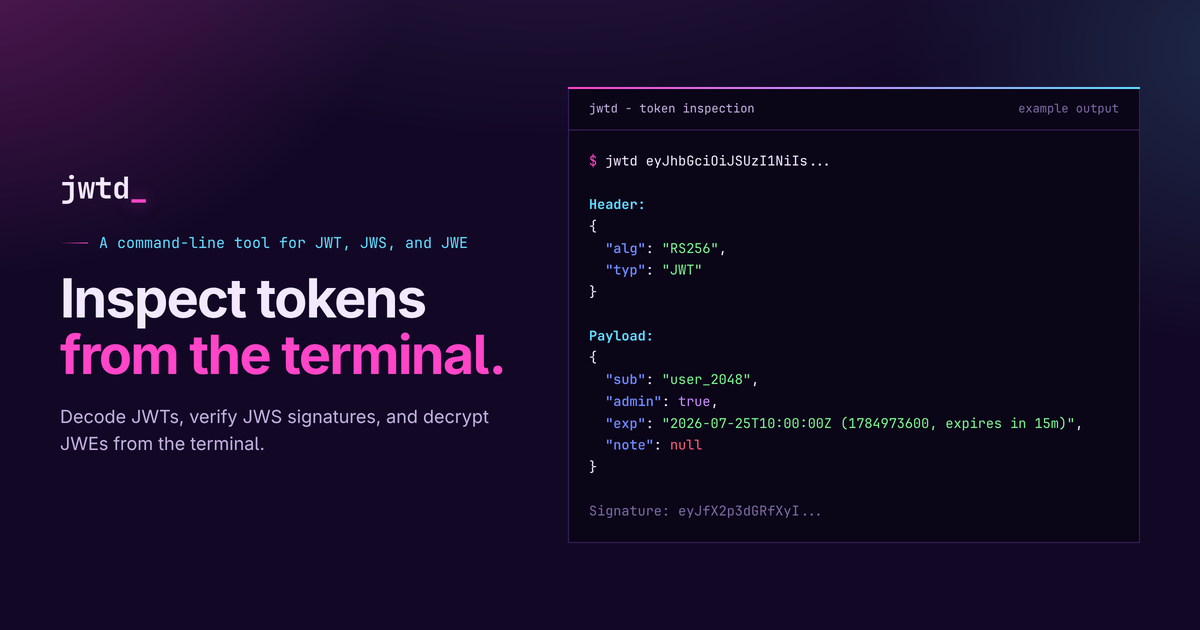
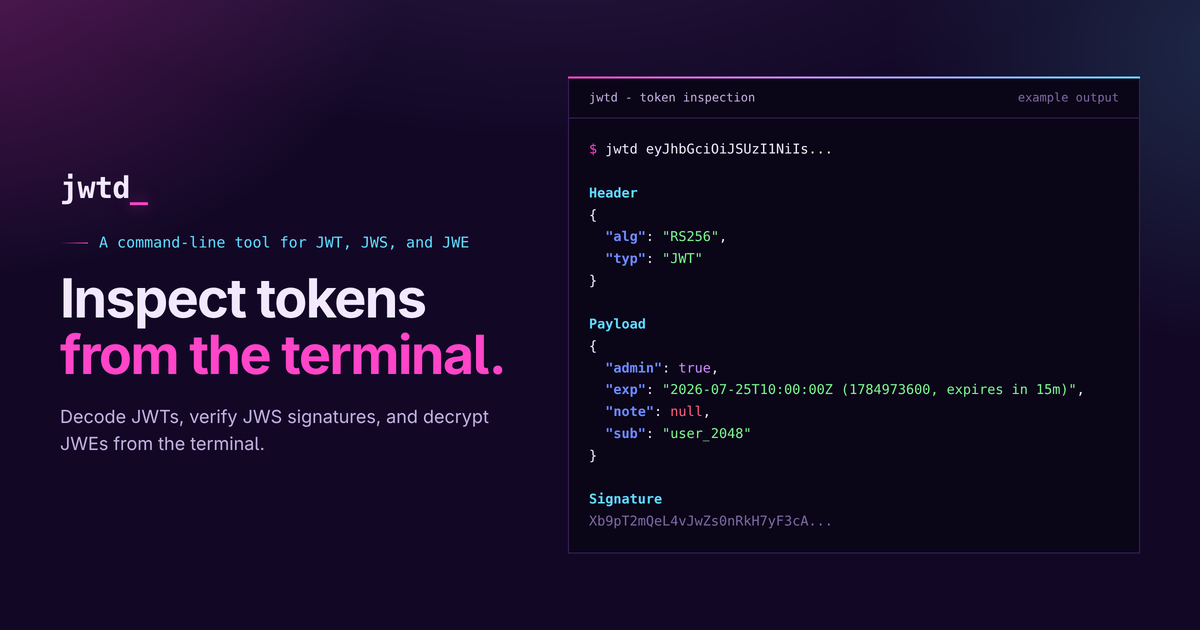
fix: make the website specimen match real jwtd output
The hero specimen and the Open Graph card showed labels with colons, the
signature on the label's line, and unsorted keys, none of which the tool
prints. Both now mirror the real output and the card is regenerated.

Also: the specimen is a figure with a figcaption so its name reaches
assistive tech; the verification link lands on the README's cosign
section; the sitemap lastmod is baked from the deployed commit date;
the Nix panel shows nix run; the --json FAQ covers the JWE shape; a
twitter:image:alt is set; and the duplicate raw-HMAC usage entry is
removed.

Claude-Session: https://claude.ai/code/session_017F8FwfSWhHEj6kmWvM8S5f

diff --git a/site/index.html b/site/index.html
@@ -30,6 +30,10 @@
     />
     <meta name="twitter:image" content="https://jwtd.sh/og.png" />
     <meta
+      name="twitter:image:alt"
+      content="jwtd terminal output: decode JWTs, verify JWS signatures, and decrypt JWEs"
+    />
+    <meta
       http-equiv="Content-Security-Policy"
       content="default-src 'none'; script-src 'self'; style-src 'self'; img-src 'self'; connect-src 'none'; font-src 'none'; object-src 'none'; base-uri 'none'; form-action 'none'; upgrade-insecure-requests"
     />
@@ -133,30 +137,31 @@
           </div>
         </div>
 
-        <div class="specimen" aria-label="Example jwtd terminal output">
-          <div class="specimen-caption">
+        <figure class="specimen">
+          <figcaption class="specimen-caption">
             <p>jwtd - token inspection</p>
             <p>example output</p>
-          </div>
+          </figcaption>
           <pre><code><span class="prompt">$</span> jwtd eyJhbGciOiJSUzI1NiIs...
 
-<span class="token-label">Header:</span>
+<span class="token-label">Header</span>
 {
   <span class="token-key">"alg"</span>: <span class="token-string">"RS256"</span>,
   <span class="token-key">"typ"</span>: <span class="token-string">"JWT"</span>
 }
 
-<span class="token-label">Payload:</span>
+<span class="token-label">Payload</span>
 {
-  <span class="token-key">"sub"</span>: <span class="token-string">"user_2048"</span>,
   <span class="token-key">"admin"</span>: <span class="token-boolean">true</span>,
-  <span class="token-key">"iat"</span>: <span class="token-string">"2026-07-25T09:45:00Z (1784972700)"</span>,
   <span class="token-key">"exp"</span>: <span class="token-string">"2026-07-25T10:00:00Z (1784973600, expires in 15m)"</span>,
-  <span class="token-key">"note"</span>: <span class="token-null">null</span>
+  <span class="token-key">"iat"</span>: <span class="token-string">"2026-07-25T09:45:00Z (1784972700)"</span>,
+  <span class="token-key">"note"</span>: <span class="token-null">null</span>,
+  <span class="token-key">"sub"</span>: <span class="token-string">"user_2048"</span>
 }
 
-<span class="signature">Signature: eyJfX2p3dGRfXyI...</span></code></pre>
-        </div>
+<span class="token-label">Signature</span>
+<span class="signature">Xb9pT2mQeL4vJwZs0nRkH7yF3cA...</span></code></pre>
+        </figure>
       </section>
 
       <section
@@ -568,15 +573,32 @@ scoop install jwtd</code></pre>
               nix run.
             </p>
           </div>
-          <div class="command-block">
-            <pre><code id="nix-command">nix profile install github:webcodr/jwtd</code></pre>
-            <div class="command-actions">
-              <button type="button" data-copy-target="nix-command">Copy</button
-              ><span
-                class="copy-feedback"
-                data-copy-feedback
-                aria-live="polite"
-              ></span>
+          <div class="install-methods">
+            <div class="command-block">
+              <p>Install into your profile</p>
+              <pre><code id="nix-command">nix profile install github:webcodr/jwtd</code></pre>
+              <div class="command-actions">
+                <button type="button" data-copy-target="nix-command">
+                  Copy</button
+                ><span
+                  class="copy-feedback"
+                  data-copy-feedback
+                  aria-live="polite"
+                ></span>
+              </div>
+            </div>
+            <div class="command-block">
+              <p>Run without installing</p>
+              <pre><code id="nix-run-command">nix run github:webcodr/jwtd -- eyJhbGciOiJIUzI1NiIs...</code></pre>
+              <div class="command-actions">
+                <button type="button" data-copy-target="nix-run-command">
+                  Copy</button
+                ><span
+                  class="copy-feedback"
+                  data-copy-feedback
+                  aria-live="polite"
+                ></span>
+              </div>
             </div>
           </div>
         </div>
@@ -774,29 +796,6 @@ scoop install jwtd</code></pre>
           <article>
             <div class="usage-number">08</div>
             <div class="usage-copy">
-              <h3>Verify with a raw HMAC secret</h3>
-              <p>
-                Prefix the key with <code>raw:</code> to pass a literal
-                symmetric secret instead of a file, so an HS256 token verifies
-                without touching disk.
-              </p>
-            </div>
-            <div class="command-block">
-              <pre><code id="raw-secret-command">jwtd --key raw:my-hmac-secret eyJhbGciOiJIUzI1NiIs...</code></pre>
-              <div class="command-actions">
-                <button type="button" data-copy-target="raw-secret-command">
-                  Copy</button
-                ><span
-                  class="copy-feedback"
-                  data-copy-feedback
-                  aria-live="polite"
-                ></span>
-              </div>
-            </div>
-          </article>
-          <article>
-            <div class="usage-number">09</div>
-            <div class="usage-copy">
               <h3>Emit machine-readable JSON</h3>
               <p>
                 Add <code>--json</code> for a single object per token, with exact
@@ -818,7 +817,7 @@ scoop install jwtd</code></pre>
             </div>
           </article>
           <article>
-            <div class="usage-number">10</div>
+            <div class="usage-number">09</div>
             <div class="usage-copy">
               <h3>Control color output</h3>
               <p>
@@ -991,7 +990,7 @@ scoop install jwtd</code></pre>
           </p>
           <a
             class="text-link"
-            href="https://github.com/webcodr/jwtd#installation"
+            href="https://github.com/webcodr/jwtd#from-releases"
             >View verification instructions</a
           >
         </div>
@@ -1079,7 +1078,10 @@ scoop install jwtd</code></pre>
               <code>signatureValid</code> when a key is given. Numbers are exact
               and timestamps stay raw, so it pipes cleanly into
               <code>jq</code>. An invalid signature still prints and exits
-              nonzero.
+              nonzero. A JWE emits <code>protectedHeader</code> plus either
+              the encrypted part sizes or, with a key,
+              <code>decryptedPayload</code>; a nested token inside it is
+              reported as its compact string rather than decoded.
             </p>
           </details>
         </div>

diff --git a/og/og.html b/og/og.html
@@ -235,21 +235,22 @@
       </div>
       <pre><span class="prompt">$</span> jwtd eyJhbGciOiJSUzI1NiIs...
 
-<span class="l">Header:</span>
+<span class="l">Header</span>
 {
   <span class="k">"alg"</span>: <span class="s">"RS256"</span>,
   <span class="k">"typ"</span>: <span class="s">"JWT"</span>
 }
 
-<span class="l">Payload:</span>
+<span class="l">Payload</span>
 {
-  <span class="k">"sub"</span>: <span class="s">"user_2048"</span>,
   <span class="k">"admin"</span>: <span class="b">true</span>,
   <span class="k">"exp"</span>: <span class="s">"2026-07-25T10:00:00Z (1784973600, expires in 15m)"</span>,
-  <span class="k">"note"</span>: <span class="n">null</span>
+  <span class="k">"note"</span>: <span class="n">null</span>,
+  <span class="k">"sub"</span>: <span class="s">"user_2048"</span>
 }
 
-<span class="sig">Signature: eyJfX2p3dGRfXyI...</span></pre>
+<span class="l">Signature</span>
+<span class="sig">Xb9pT2mQeL4vJwZs0nRkH7yF3cA...</span></pre>
     </div>
   </body>
 </html>

diff --git a/site/styles.css b/site/styles.css
@@ -454,6 +454,7 @@ li > code {
 .specimen {
   position: relative;
   min-width: 0;
+  margin: 0;
   border: 1px solid var(--border);
   background: var(--background-deep);
 }

diff --git a/site_test.go b/site_test.go
@@ -51,30 +51,32 @@ func TestWebsiteContentContract(t *testing.T) {
 	index := readWebsiteFile(t, "site", "index.html")
 	normalizedIndex := normalizeMarkup(index)
 	for label, required := range map[string]string{
-		"canonical URL":    `<link rel="canonical" href="https://jwtd.sh/">`,
-		"content security": `default-src 'none'`,
-		"skip link":        `href="#main-content"`,
-		"header landmark":  `<header class="site-header">`,
-		"main landmark":    `<main id="main-content">`,
-		"output specimen":  `<div class="specimen" aria-label="Example jwtd terminal output">`,
-		"hero install":     `<p class="hero-install-method" id="hero-install-method">`,
-		"capabilities":     `id="capabilities"`,
-		"installation":     `id="install"`,
-		"usage":            `id="usage"`,
-		"key formats":      `id="key-formats"`,
-		"release security": `id="release-security"`,
-		"footer landmark":  `<footer class="site-footer">`,
-		"local stylesheet": `href="/styles.css"`,
-		"local script":     `src="/script.js"`,
-		"local favicon":    `href="/favicon.svg"`,
-		"structured data":  `<script type="application/ld+json">`,
-		"Open Graph image": `<meta property="og:image" content="https://jwtd.sh/og.png">`,
-		"Twitter card":     `<meta name="twitter:card" content="summary_large_image">`,
-		"FAQ accordion":    `<summary><h3>Does jwtd send my token anywhere?</h3></summary>`,
-		"release version":  `<p class="panel-kicker">Latest release: <a href="https://github.com/webcodr/jwtd/releases/latest">VERSION</a></p>`,
-		"install controls": `data-install-tabs`,
-		"install methods":  `data-install-method="macos"`,
-		"install panels":   `data-install-panel="macos"`,
+		"canonical URL":     `<link rel="canonical" href="https://jwtd.sh/">`,
+		"content security":  `default-src 'none'`,
+		"skip link":         `href="#main-content"`,
+		"header landmark":   `<header class="site-header">`,
+		"main landmark":     `<main id="main-content">`,
+		"output specimen":   `<figure class="specimen"><figcaption class="specimen-caption">`,
+		"Twitter image alt": `<meta name="twitter:image:alt" content="jwtd terminal output: decode JWTs, verify JWS signatures, and decrypt JWEs">`,
+		"verification link": `href="https://github.com/webcodr/jwtd#from-releases"`,
+		"hero install":      `<p class="hero-install-method" id="hero-install-method">`,
+		"capabilities":      `id="capabilities"`,
+		"installation":      `id="install"`,
+		"usage":             `id="usage"`,
+		"key formats":       `id="key-formats"`,
+		"release security":  `id="release-security"`,
+		"footer landmark":   `<footer class="site-footer">`,
+		"local stylesheet":  `href="/styles.css"`,
+		"local script":      `src="/script.js"`,
+		"local favicon":     `href="/favicon.svg"`,
+		"structured data":   `<script type="application/ld+json">`,
+		"Open Graph image":  `<meta property="og:image" content="https://jwtd.sh/og.png">`,
+		"Twitter card":      `<meta name="twitter:card" content="summary_large_image">`,
+		"FAQ accordion":     `<summary><h3>Does jwtd send my token anywhere?</h3></summary>`,
+		"release version":   `<p class="panel-kicker">Latest release: <a href="https://github.com/webcodr/jwtd/releases/latest">VERSION</a></p>`,
+		"install controls":  `data-install-tabs`,
+		"install methods":   `data-install-method="macos"`,
+		"install panels":    `data-install-panel="macos"`,
 	} {
 		if !strings.Contains(normalizedIndex, normalizeMarkup(required)) {
 			t.Errorf("site/index.html is missing %s marker %q", label, required)
@@ -403,6 +405,12 @@ func TestWebsitePagesWorkflowContract(t *testing.T) {
 	}
 	if !strings.Contains(bakeScript, "gh release view") || !strings.Contains(bakeScript, "VERSION") {
 		t.Errorf("Pages build job must bake the latest release version into the site, got %q", bakeScript)
+	}
+	if !strings.Contains(bakeScript, "git log -1 --format=%cs") || !strings.Contains(bakeScript, "LASTMOD") {
+		t.Errorf("Pages build job must bake the deployed commit date into the sitemap, got %q", bakeScript)
+	}
+	if sitemap := readWebsiteFile(t, "site", "sitemap.xml"); !strings.Contains(sitemap, "<lastmod>LASTMOD</lastmod>") {
+		t.Error("site/sitemap.xml must carry the LASTMOD placeholder the Pages build fills in")
 	}
 
 	var deploymentID string
